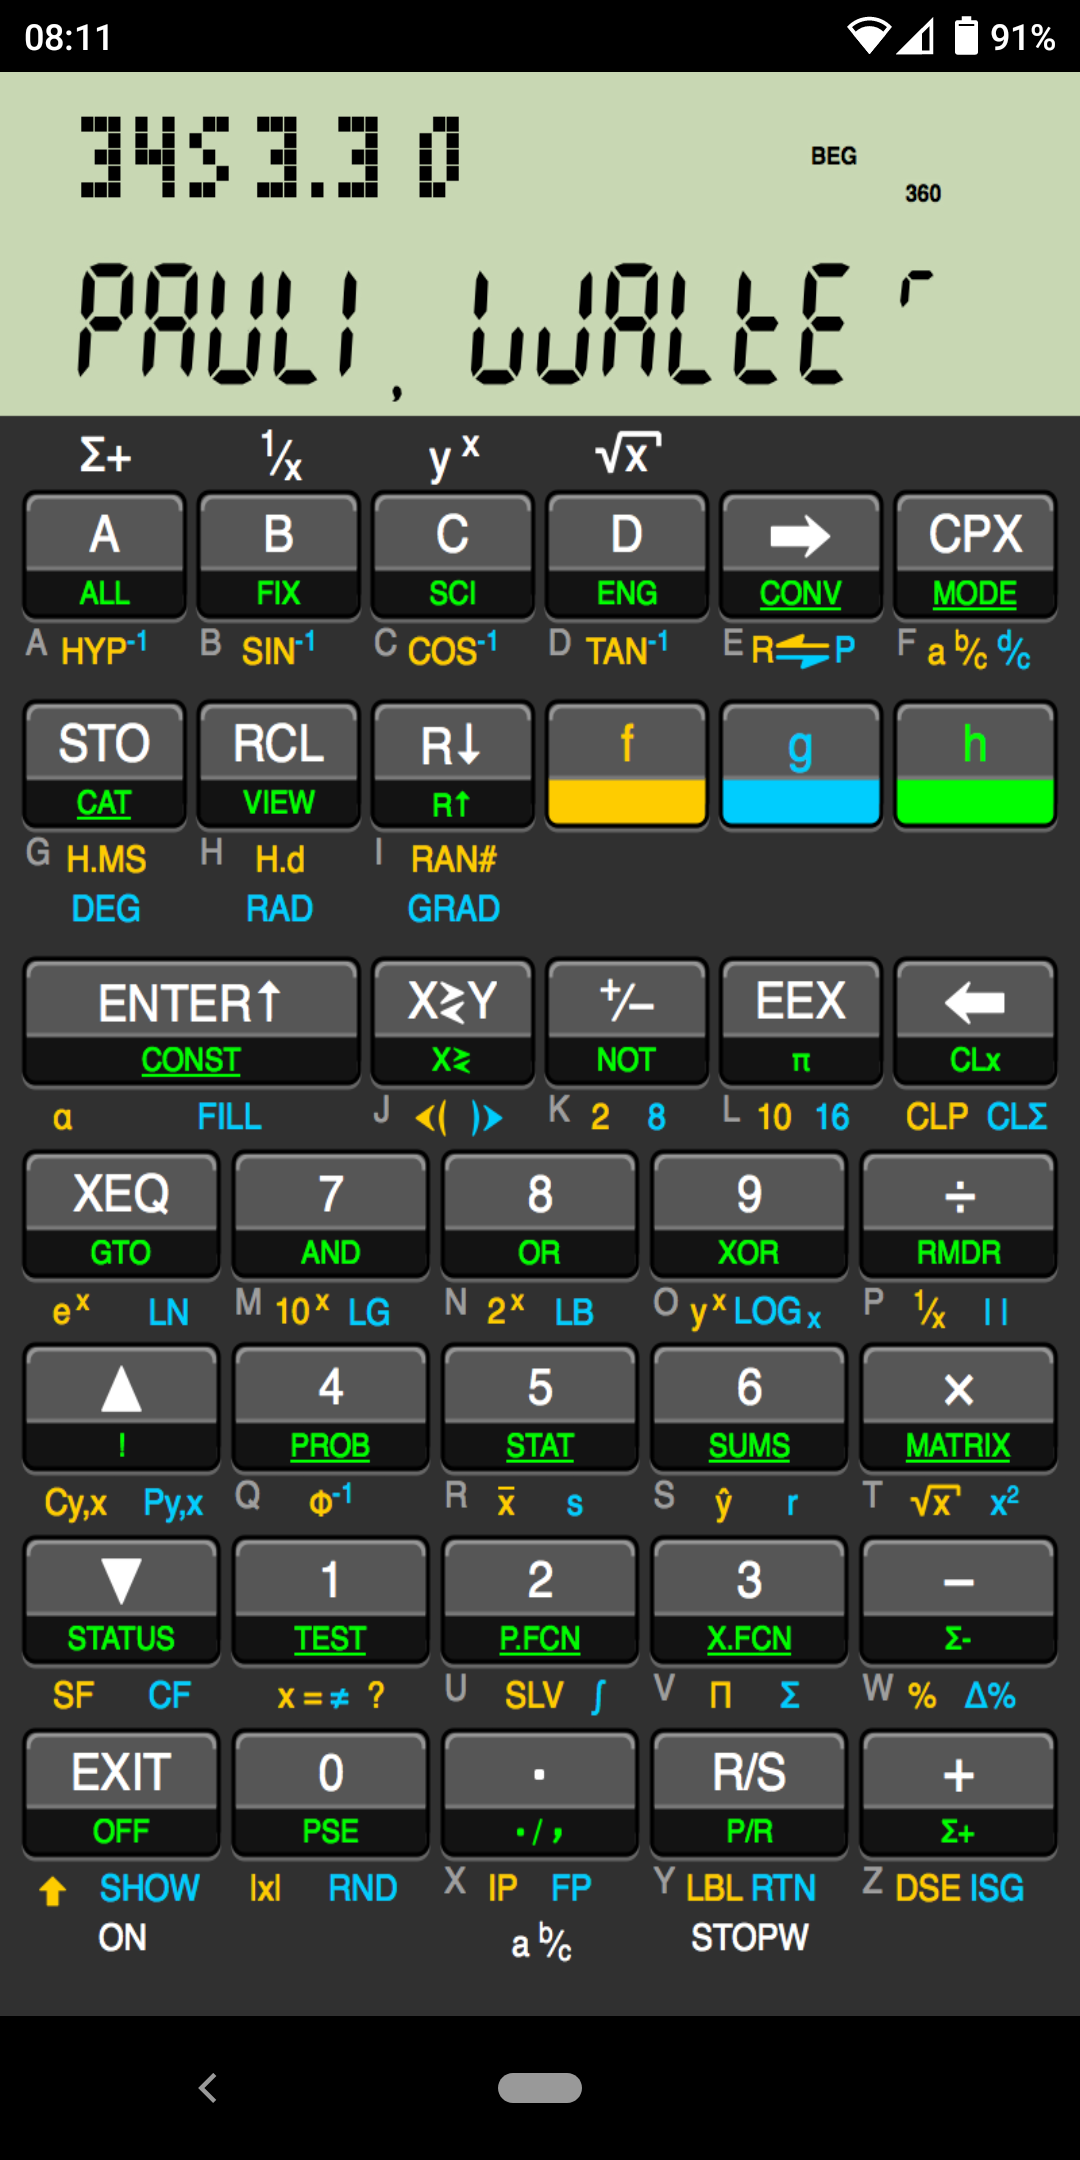
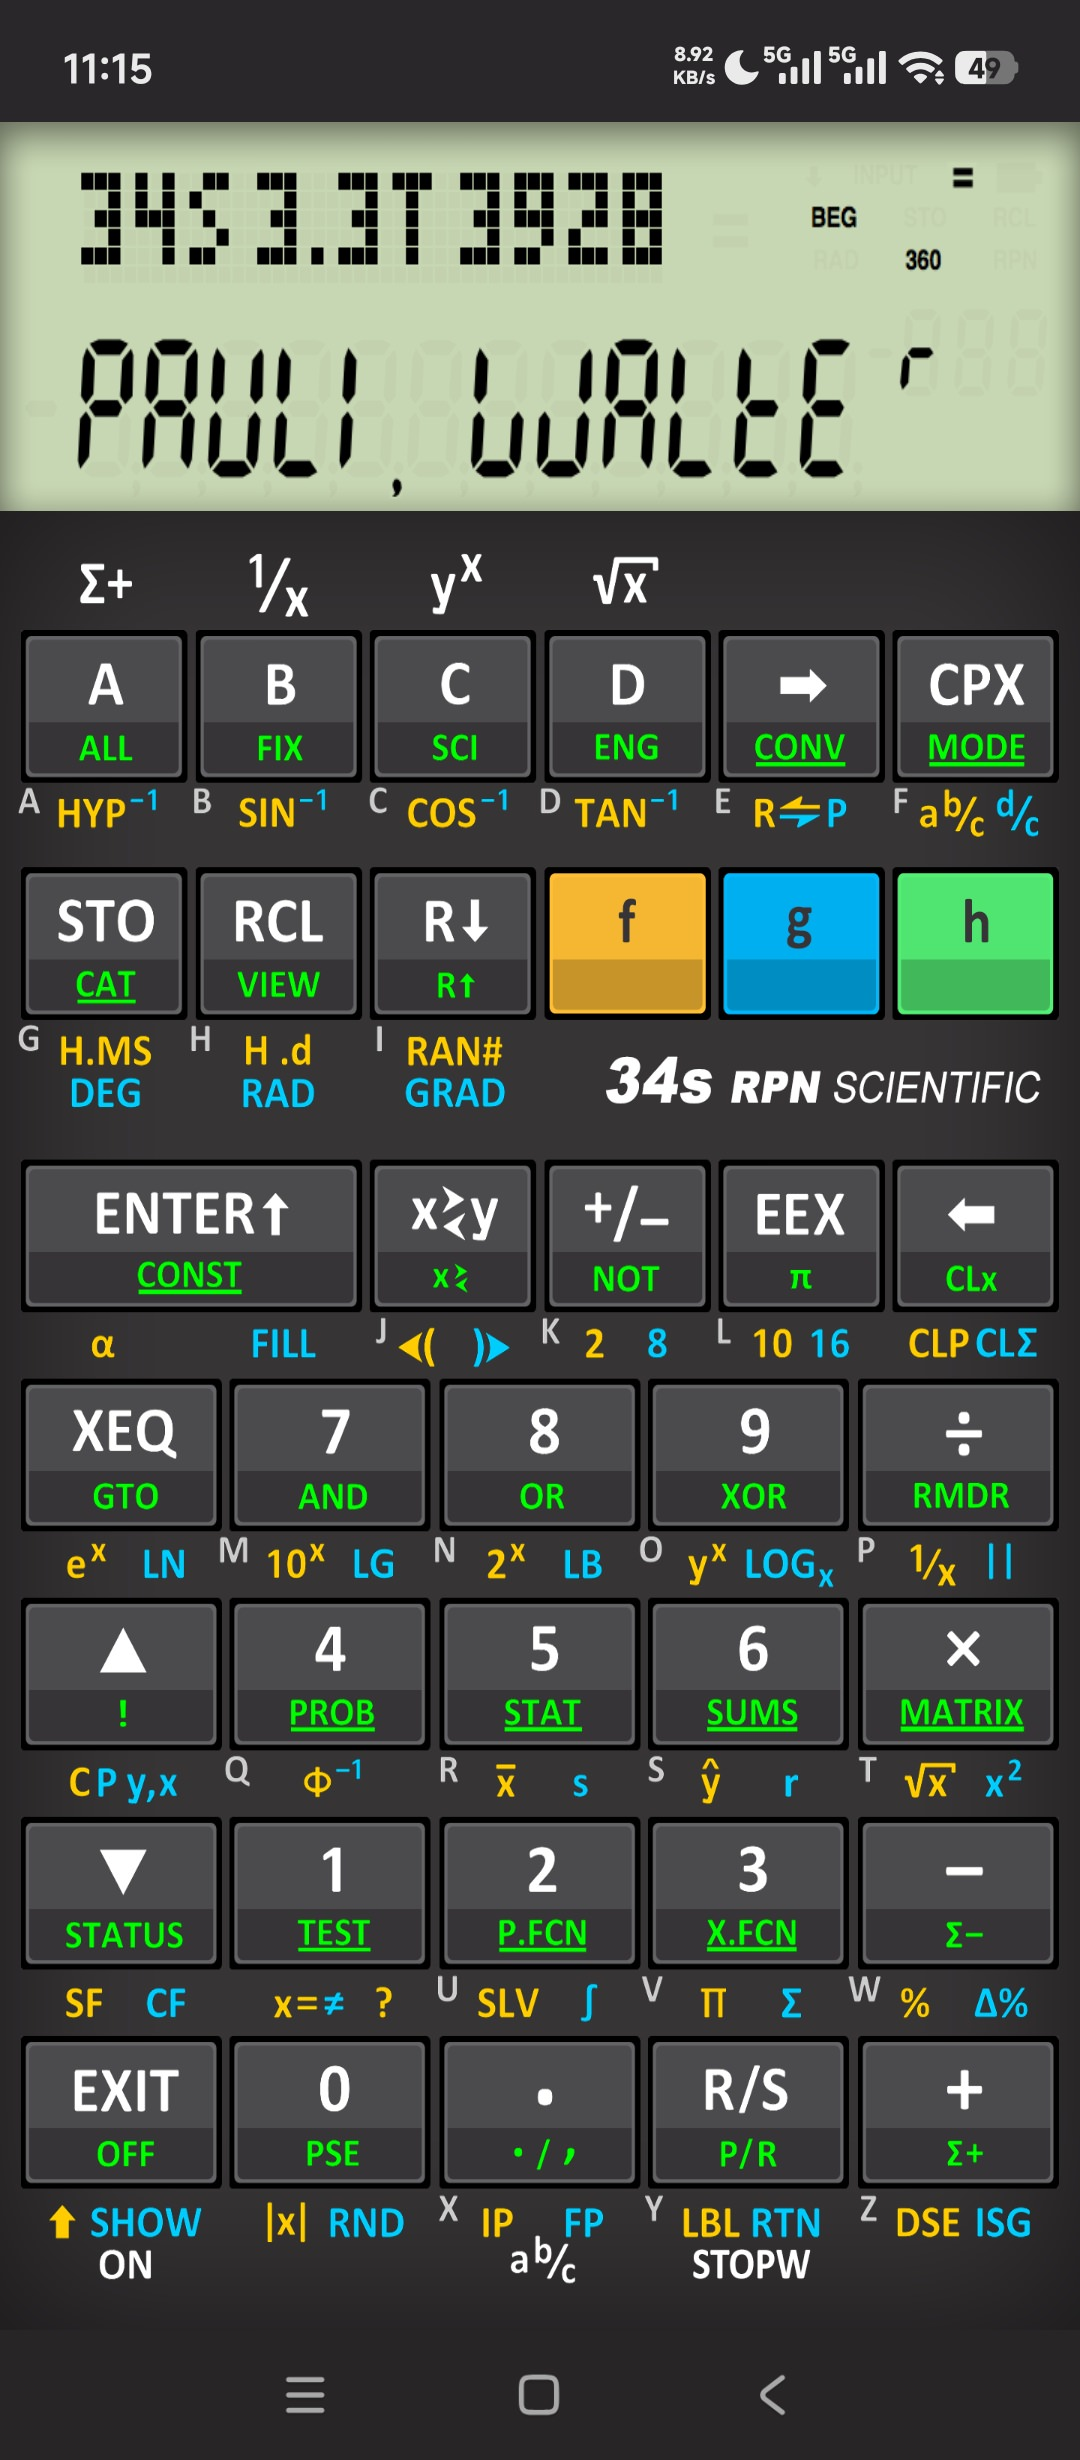
highres skin

diff --git a/app/src/main/java/com/megatops/wp34s/MainActivity.java b/app/src/main/java/com/megatops/wp34s/MainActivity.java
@@ -56,7 +56,6 @@ import java.util.Objects;
 
 /* Main Activity is the entrypoint for an Android Application */
 public class MainActivity extends AppCompatActivity {
-
     static {
         // load the wp34s C library on application startup.
         System.loadLibrary("wp34s");
@@ -81,10 +80,8 @@ public class MainActivity extends AppCompatActivity {
         Window window = getWindow();
 
         window.addFlags(WindowManager.LayoutParams.FLAG_DRAWS_SYSTEM_BAR_BACKGROUNDS);
-        window.clearFlags(
-                WindowManager.LayoutParams.FLAG_TRANSLUCENT_STATUS |
-                        WindowManager.LayoutParams.FLAG_TRANSLUCENT_NAVIGATION
-        );
+        window.clearFlags(WindowManager.LayoutParams.FLAG_TRANSLUCENT_STATUS |
+                WindowManager.LayoutParams.FLAG_TRANSLUCENT_NAVIGATION);
         window.setStatusBarColor(Color.parseColor("#292729"));
         window.setNavigationBarColor(Color.parseColor("#272526"));
 
@@ -113,10 +110,13 @@ class CalcView extends View {
     private final Bitmap DOTS;        /* Bitmap for the dots */
     private final Rect DOTS_RECT;     /* Geometry of the sub-canvas before drawing */
 
-    private final float lcdRatioHeight; /* To get Ratio of bitmap vs canvas height */
-    private float ratioHeight = 0.0f;   /* Aspect ratio between bitmap and canvas */
-    private float ratioWidth = 0.0f;    /* Aspect ratio between bitmap and canvas. Those
-                                           are used to get the relative pixel that is clicked */
+    @SuppressWarnings("FieldCanBeLocal")
+    private final int ORIG_WIDTH = 800;   /* the original skin width */
+    private final int ORIG_HEIGHT = 1300; /* the original skin height */
+    private final float LCD_RATIO_HEIGHT; /* To get Ratio of bitmap vs canvas height */
+    private float ratioHeight = 0.0f;     /* Aspect ratio between bitmap and canvas */
+    private float ratioWidth = 0.0f;      /* Aspect ratio between bitmap and canvas. Those
+                                             are used to get the relative pixel that is clicked */
 
     private final Paint PRESSED_PAINT;
     private boolean showPressed = false;
@@ -134,7 +134,7 @@ class CalcView extends View {
 
         BACKGROUND = Objects.requireNonNull(this.BMP.get("wp34s_V3_highres_modern"));
         Bitmap fullscreen = Objects.requireNonNull(this.BMP.get("fullscreen"));
-        lcdRatioHeight = (float) fullscreen.getHeight() / BACKGROUND.getHeight();
+        LCD_RATIO_HEIGHT = (float) fullscreen.getHeight() / ORIG_HEIGHT;
         DOTS = Bitmap.createBitmap(fullscreen.getWidth(), fullscreen.getHeight(),
                 Bitmap.Config.ARGB_8888);
         DOTS_RECT = new Rect(0, 0, DOTS.getWidth(), DOTS.getHeight());
@@ -220,7 +220,7 @@ class CalcView extends View {
         }
         Rect subSrc = new Rect(0, 0, bitmap.getWidth(), bitmap.getHeight());
         Rect clip = canvas.getClipBounds();
-        Rect subDst = new Rect(clip.left, clip.top, clip.right, (int) (clip.bottom * lcdRatioHeight));
+        Rect subDst = new Rect(clip.left, clip.top, clip.right, (int) (clip.bottom * LCD_RATIO_HEIGHT));
         canvas.drawBitmap(bitmap, subSrc, subDst, p);
     }
 
@@ -235,8 +235,7 @@ class CalcView extends View {
     /* Draw the dots bitmap over the background */
     private void drawDots(Canvas canvas, Paint p) {
         Rect clip = canvas.getClipBounds();
-        Rect subDst = new Rect(clip.left, clip.top, clip.right,
-                (int) (clip.bottom * lcdRatioHeight));
+        Rect subDst = new Rect(clip.left, clip.top, clip.right, (int) (clip.bottom * LCD_RATIO_HEIGHT));
         canvas.drawBitmap(DOTS, DOTS_RECT, subDst, p);
     }
 
@@ -396,8 +395,8 @@ class CalcView extends View {
                     PRESSED_RADIUS, PRESSED_RADIUS, PRESSED_PAINT);
         }
 
-        ratioWidth = (float) BACKGROUND.getWidth() / clip.width();
-        ratioHeight = (float) BACKGROUND.getHeight() / clip.height();
+        ratioWidth = (float) ORIG_WIDTH / clip.width();
+        ratioHeight = (float) ORIG_HEIGHT / clip.height();
 
         byte[] data = wp34sGetLcdData();
 
